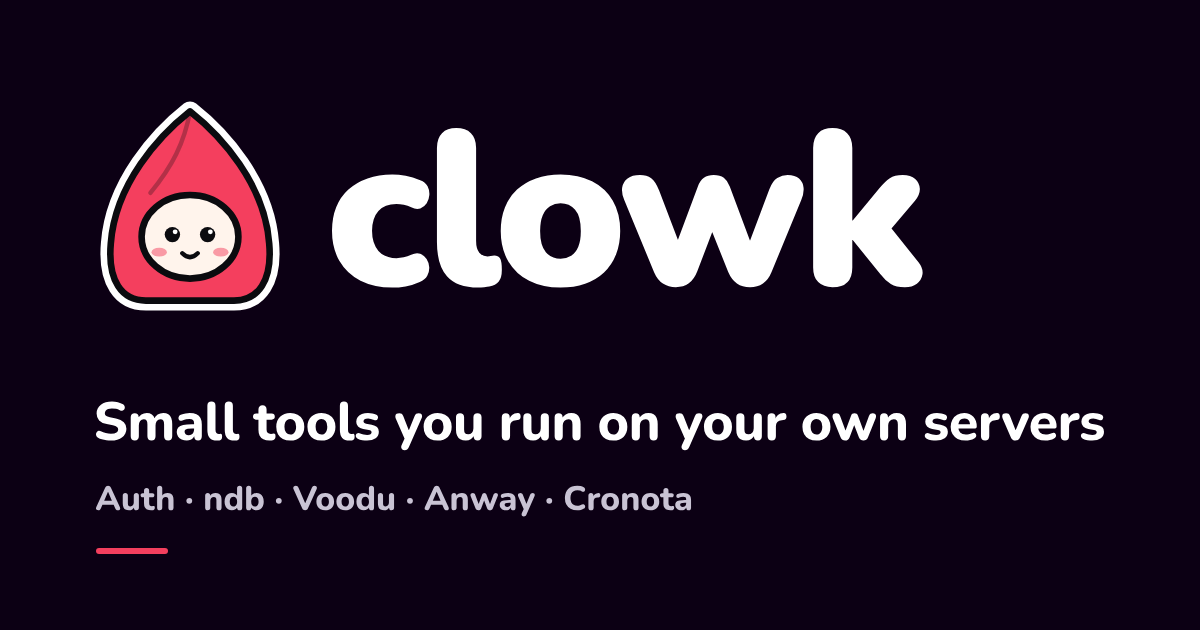
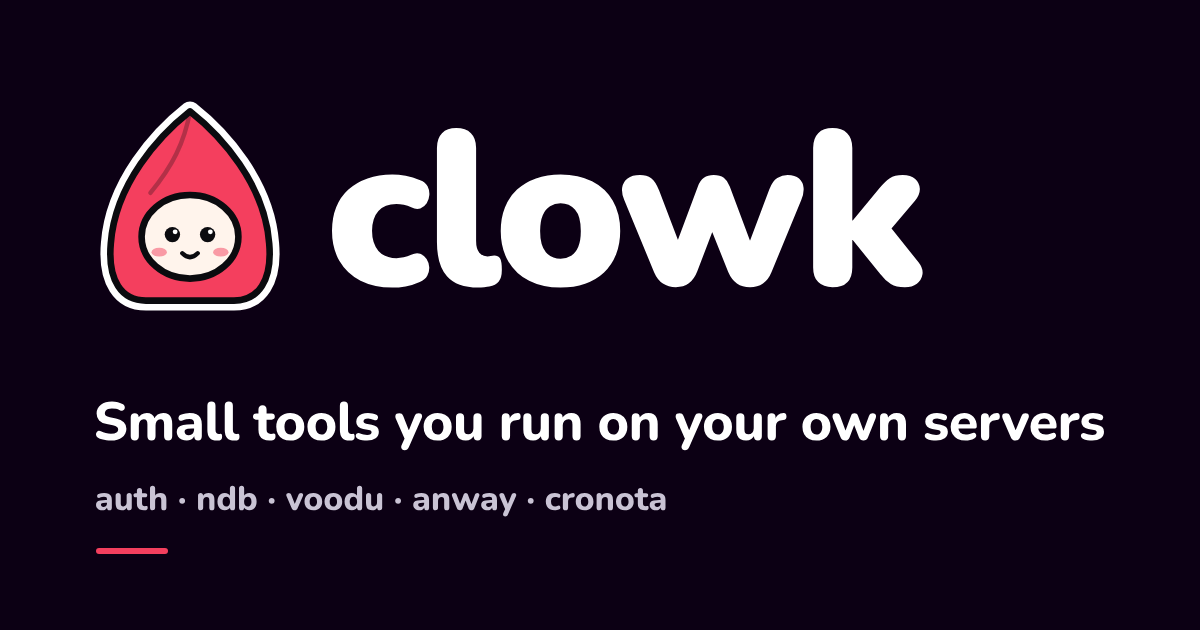
tag(patch): lowercase product names, one cronota card, tighter spacing
The products are named in lowercase everywhere: auth, ndb, voodu, anway and
cronota, also in the social preview. The "we build on our own tools" block
is one cronota card with what it runs on, so it no longer repeats cronota
on a phone. Less space above the hero and between sections on small
screens, and the footer is a compact grid.

Changed region(s): [[0.0617, 0.754, 0.5858, 0.8143]]

diff --git a/lib/products.ts b/lib/products.ts
@@ -28,9 +28,9 @@ export const SITE_URL = 'https://clowk.in';
 export const products: Product[] = [
   {
     slug: 'auth',
-    name: 'Clowk Auth',
+    name: 'auth',
     mark: '/brand/mark-on-light.svg',
-    seoTitle: 'Clowk Auth — authentication broker for every stack',
+    seoTitle: 'auth by Clowk — authentication broker for every stack',
     seoDescription:
       'Clowk runs the OAuth dance with Google, GitHub, X and Apple and returns a signed JWT. No embedded UI, no per-MAU billing. SDKs for React, Next.js, Express, Hono and Rails.',
     tagline: 'Broker, not provider. Sign-in that stays out of your UI.',
@@ -116,11 +116,11 @@ export const products: Product[] = [
   },
   {
     slug: 'voodu',
-    name: 'Voodu',
+    name: 'voodu',
     mark: '/products/voodu.svg',
-    seoTitle: 'Voodu — self-hosted PaaS with one HCL file and one voodu apply',
+    seoTitle: 'voodu — self-hosted PaaS with one HCL file and one voodu apply',
     seoDescription:
-      'Voodu is a self-hosted, Heroku-shaped PaaS. One HCL file describes apps, ingress with TLS and stateful services. voodu apply builds, ships, routes and swaps over SSH.',
+      'voodu is a self-hosted, Heroku-shaped PaaS. One HCL file describes apps, ingress with TLS and stateful services. voodu apply builds, ships, routes and swaps over SSH.',
     tagline: 'Self-hosted PaaS. One HCL file. One voodu apply.',
     summary:
       'Heroku-shaped deploys on your own boxes. The CLI streams the build over SSH: no commit, no push, no bare repo.',
@@ -162,7 +162,7 @@ export const products: Product[] = [
       },
     ],
     faq: [
-      { q: 'Do I need Kubernetes?', a: 'No. Voodu runs on a plain Linux server with Docker.' },
+      { q: 'Do I need Kubernetes?', a: 'No. voodu runs on a plain Linux server with Docker.' },
       { q: 'Do I have to commit before a deploy?', a: 'No. The CLI streams the build context straight to the server.' },
       { q: 'Which machines does it install on?', a: 'The server runs on Linux. On macOS the installer sets up the client only.' },
     ],
@@ -170,11 +170,11 @@ export const products: Product[] = [
   },
   {
     slug: 'anway',
-    name: 'Anway',
+    name: 'anway',
     mark: '/products/anway.svg',
-    seoTitle: 'Anway — background jobs for any language, one binary, no Redis',
+    seoTitle: 'anway — background jobs for any language, one binary, no Redis',
     seoDescription:
-      'Anway is a language-agnostic background job server. One binary with embedded disk storage, no Redis. Push a job from Rails and run it in Go.',
+      'anway is a language-agnostic background job server. One binary with embedded disk storage, no Redis. Push a job from Rails and run it in Go.',
     tagline: 'Background jobs for any language. One binary, no Redis.',
     summary: 'A Rails app pushes email.send, and a Go worker runs it. Storage is on disk, inside the binary.',
     bullets: [
@@ -197,7 +197,7 @@ export const products: Product[] = [
       { title: 'Batches', text: 'Batches with callbacks and child batches, job tracking, and a death hook.' },
     ],
     faq: [
-      { q: 'Do I need Redis?', a: 'No. Anway stores jobs on disk, inside the server.' },
+      { q: 'Do I need Redis?', a: 'No. anway stores jobs on disk, inside the server.' },
       { q: 'Which languages can push and run jobs?', a: 'There are SDKs for Ruby, Go and JavaScript. A job pushed in one language can run in another.' },
       { q: 'How do I run it?', a: 'Use the Docker image, or download a binary for Linux or macOS from the releases.' },
     ],
@@ -205,11 +205,11 @@ export const products: Product[] = [
   },
   {
     slug: 'cronota',
-    name: 'Cronota',
+    name: 'cronota',
     mark: '/products/cronota.svg',
-    seoTitle: 'Cronota — emit NFS-e on a schedule through the Emissor Nacional',
+    seoTitle: 'cronota — emit NFS-e on a schedule through the Emissor Nacional',
     seoDescription:
-      'Cronota emits NFS-e through the Emissor Nacional: one-off notes, templates and recurring schedules with approval. A1 certificate encrypted and audited.',
+      'cronota emits NFS-e through the Emissor Nacional: one-off notes, templates and recurring schedules with approval. A1 certificate encrypted and audited.',
     tagline: 'NFS-e on a schedule, through the Emissor Nacional.',
     summary:
       'For companies in Brazil: one-off notes, templates and recurring schedules, with approval before each note if you want it.',
@@ -227,11 +227,11 @@ export const products: Product[] = [
       { title: 'Schedules', text: 'Recurring notes, with an optional approval before each one is emitted.' },
       { title: 'Live and Sandbox', text: 'Production and produção restrita, switched in the tenant menu.' },
       { title: 'A1 certificate', text: 'The PFX is encrypted, and every opening is audited.' },
-      { title: 'ADN sync', text: 'Notes emitted outside Cronota show up in the app.' },
+      { title: 'ADN sync', text: 'Notes emitted outside cronota show up in the app.' },
       { title: 'API and webhooks', text: 'API v1, webhooks, XML import, reports and team members.' },
     ],
     faq: [
-      { q: 'Who is Cronota for?', a: 'Companies in Brazil that emit NFS-e through the Emissor Nacional.' },
+      { q: 'Who is cronota for?', a: 'Companies in Brazil that emit NFS-e through the Emissor Nacional.' },
       { q: 'Can I check a note before it goes out?', a: 'Yes. A schedule can ask for approval before each note.' },
       { q: 'Can I test without emitting real notes?', a: 'Yes. Switch to Sandbox to use produção restrita.' },
     ],

diff --git a/components/product/ProductPage.tsx b/components/product/ProductPage.tsx
@@ -15,7 +15,7 @@ export default function ProductPage({ product }: { product: Product }) {
       <Header />
 
       <main className="bg-[#0C0014] text-white">
-        <section className="max-w-6xl mx-auto px-4 sm:px-6 pt-32 pb-14 flex flex-wrap gap-12 items-center">
+        <section className="max-w-6xl mx-auto px-4 sm:px-6 pt-24 md:pt-32 pb-12 md:pb-14 flex flex-wrap gap-10 md:gap-12 items-center">
           <div className="flex-[999_1_520px] min-w-0 flex flex-col items-start gap-5">
             <nav aria-label="Breadcrumb" className="flex gap-2 text-sm text-[#A9A1B6]">
               <Link href="/#products" className="hover:text-white">Products</Link>
@@ -37,7 +37,7 @@ export default function ProductPage({ product }: { product: Product }) {
 
             <div className="flex flex-wrap gap-3">
               <Link href={product.docsUrl} className="inline-flex items-center min-h-12 px-6 rounded-xl bg-[#F43F5E] hover:bg-[#E8385A] font-bold transition-colors">
-                {product.slug === 'cronota' ? 'Open Cronota' : 'Read the docs'} ↗
+                {product.slug === 'cronota' ? 'Open cronota' : 'Read the docs'} ↗
               </Link>
 
               {product.githubUrl && (
@@ -57,7 +57,7 @@ export default function ProductPage({ product }: { product: Product }) {
         </section>
 
         {product.slug !== 'cronota' && (
-          <section aria-labelledby="install-title" className="max-w-6xl mx-auto px-4 sm:px-6 pb-16">
+          <section aria-labelledby="install-title" className="max-w-6xl mx-auto px-4 sm:px-6 pb-12 md:pb-16">
             <div className="rounded-[18px] bg-[#140D1C] border border-white/[0.09] p-5 sm:px-6 flex flex-wrap items-center gap-x-6 gap-y-3">
               <h2 id="install-title" className="text-base font-bold">Install</h2>
 
@@ -70,7 +70,7 @@ export default function ProductPage({ product }: { product: Product }) {
           </section>
         )}
 
-        <section aria-labelledby="features-title" className="max-w-6xl mx-auto px-4 sm:px-6 pb-20 flex flex-col gap-6">
+        <section aria-labelledby="features-title" className="max-w-6xl mx-auto px-4 sm:px-6 pb-14 md:pb-20 flex flex-col gap-6">
           <h2 id="features-title" className="text-[clamp(28px,3.4vw,40px)] tracking-tight font-bold">What you get</h2>
 
           <div className="grid grid-cols-[repeat(auto-fit,minmax(min(280px,100%),1fr))] gap-4">
@@ -84,7 +84,7 @@ export default function ProductPage({ product }: { product: Product }) {
         </section>
 
         <section aria-labelledby="more-title" className="border-t border-white/[0.08] bg-[#110A18]">
-          <div className="max-w-6xl mx-auto px-4 sm:px-6 py-16 flex flex-col gap-5">
+          <div className="max-w-6xl mx-auto px-4 sm:px-6 py-12 md:py-16 flex flex-col gap-5">
             <h2 id="more-title" className="text-2xl font-bold">More from Clowk</h2>
 
             <ul className="grid grid-cols-[repeat(auto-fit,minmax(min(220px,100%),1fr))] gap-3">
@@ -104,7 +104,7 @@ export default function ProductPage({ product }: { product: Product }) {
           </div>
         </section>
 
-        <section aria-labelledby="faq-title" className="max-w-[820px] mx-auto px-4 sm:px-6 py-18 flex flex-col gap-3">
+        <section aria-labelledby="faq-title" className="max-w-[820px] mx-auto px-4 sm:px-6 py-14 md:py-18 flex flex-col gap-3">
           <h2 id="faq-title" className="text-[clamp(28px,3.4vw,40px)] tracking-tight font-bold mb-2">Questions</h2>
 
           {product.faq.map(item => (

diff --git a/components/home/Family.tsx b/components/home/Family.tsx
@@ -1,5 +1,5 @@
 import ProductMark from '@/components/ProductMark';
-import { findProduct, products, type Product } from '@/lib/products';
+import { findProduct, products } from '@/lib/products';
 
 export default function Family() {
   const cronota = findProduct('cronota')!;
@@ -7,36 +7,35 @@ export default function Family() {
 
   return (
     <section id="family" aria-labelledby="family-title" className="scroll-mt-24 border-y border-white/[0.08] bg-[#110A18]">
-      <div className="max-w-6xl mx-auto px-4 sm:px-6 py-18 flex flex-wrap gap-10 items-center">
-        <div className="flex-[1_1_340px] flex flex-col gap-3.5">
+      <div className="max-w-6xl mx-auto px-4 sm:px-6 py-14 md:py-18 flex flex-wrap gap-8 md:gap-10 items-center">
+        <div className="flex-[1_1_340px] flex flex-col gap-3">
           <h2 id="family-title" className="text-[clamp(28px,3.4vw,40px)] tracking-tight font-bold text-white">
             We build on our own tools.
           </h2>
 
           <p className="text-[17px] leading-relaxed text-[#C9C3D4]">
-            Cronota is a real app, and it runs on three of the products. You can mix them the same way, or use only one.
+            cronota is a real app, and it runs on three of the products. You can mix them the same way, or use only one.
           </p>
         </div>
 
-        <ul className="flex-[999_1_560px] min-w-0 flex flex-col gap-3">
-          {used.map(product => (
-            <li key={product.slug} className="flex flex-wrap items-center gap-3.5">
-              <Tile product={product} />
-              <span className="text-sm font-bold text-[#FB7185] whitespace-nowrap">{product.usedBy} →</span>
-              <Tile product={cronota} highlight />
-            </li>
-          ))}
-        </ul>
+        <div className="flex-[999_1_560px] min-w-0 rounded-[20px] bg-[#1A1222] border border-[#F43F5E]/45 p-4 sm:p-5 flex flex-col gap-4">
+          <div className="flex items-center gap-3">
+            <ProductMark product={cronota} size="sm" />
+            <span className="text-base font-bold text-white">{cronota.name}</span>
+            <span className="text-sm text-[#A9A1B6]">runs on</span>
+          </div>
+
+          <ul className="grid grid-cols-[repeat(auto-fit,minmax(min(180px,100%),1fr))] gap-2.5">
+            {used.map(product => (
+              <li key={product.slug} className="flex items-center gap-3 px-3.5 py-3 rounded-[14px] bg-[#140D1C] border border-white/[0.09]">
+                <ProductMark product={product} size="sm" />
+                <span className="text-base font-bold text-white">{product.name}</span>
+                <span className="ml-auto text-sm font-bold text-[#FB7185]">{product.usedBy}</span>
+              </li>
+            ))}
+          </ul>
+        </div>
       </div>
     </section>
-  );
-}
-
-function Tile({ product, highlight = false }: { product: Product; highlight?: boolean }) {
-  return (
-    <div className={`flex-[1_1_200px] flex items-center gap-3 px-4 py-3.5 rounded-[14px] bg-[#1A1222] border ${highlight ? 'border-[#F43F5E]/45' : 'border-white/[0.09]'}`}>
-      <ProductMark product={product} size="sm" />
-      <span className="text-base font-bold text-white">{product.name}</span>
-    </div>
   );
 }

diff --git a/components/Footer.tsx b/components/Footer.tsx
@@ -11,8 +11,8 @@ const company = [
 export default function Footer() {
   return (
     <footer className="bg-[#0C0014] border-t border-white/[0.08] text-[#C9C3D4]">
-      <div className="max-w-6xl mx-auto px-4 sm:px-6 py-12 flex flex-wrap gap-10">
-        <div className="flex-[1_1_240px] flex flex-col gap-3">
+      <div className="max-w-6xl mx-auto px-4 sm:px-6 pt-10 pb-6 grid grid-cols-2 sm:grid-cols-3 md:grid-cols-[2fr_1fr_1fr_1fr] gap-x-6 gap-y-8">
+        <div className="col-span-2 sm:col-span-3 md:col-span-1 flex flex-col gap-2">
           <Logo height={28} />
           <p className="text-sm text-[#A9A1B6]">Small tools you run on your own servers.</p>
         </div>
@@ -22,7 +22,7 @@ export default function Footer() {
         <FooterColumn title="Company" links={company} />
       </div>
 
-      <div className="max-w-6xl mx-auto px-4 sm:px-6 pb-10 text-xs text-[#A9A1B6]">
+      <div className="max-w-6xl mx-auto px-4 sm:px-6 pb-8 text-xs text-[#A9A1B6]">
         © {new Date().getFullYear()} Clowk. All rights reserved.
       </div>
     </footer>
@@ -31,11 +31,11 @@ export default function Footer() {
 
 function FooterColumn({ title, links }: { title: string; links: { label: string; href: string }[] }) {
   return (
-    <div className="flex-[1_1_160px] flex flex-col gap-1 text-sm">
-      <h2 className="text-[13px] font-bold text-white mb-1.5">{title}</h2>
+    <div className="flex flex-col text-sm min-w-0">
+      <h2 className="text-[13px] font-bold text-white mb-1">{title}</h2>
 
       {links.map(link => (
-        <Link key={link.label} href={link.href} className="min-h-8 inline-flex items-center hover:text-white transition-colors">
+        <Link key={link.label} href={link.href} className="min-h-8 inline-flex items-center truncate hover:text-white transition-colors">
           {link.label}
         </Link>
       ))}

diff --git a/components/home/HomeHero.tsx b/components/home/HomeHero.tsx
@@ -4,7 +4,7 @@ import { products } from '@/lib/products';
 
 export default function HomeHero() {
   return (
-    <section className="max-w-6xl mx-auto px-4 sm:px-6 pt-36 pb-14 md:pt-44 flex flex-col items-start gap-6">
+    <section className="max-w-6xl mx-auto px-4 sm:px-6 pt-24 pb-10 md:pt-40 md:pb-14 flex flex-col items-start gap-5 md:gap-6">
       <span className="inline-flex items-center px-3 py-1.5 rounded-full border border-white/[0.12] text-[13px] text-[#C9C3D4]">
         Five products · one family · self-hosted
       </span>
@@ -24,11 +24,11 @@ export default function HomeHero() {
         </Link>
 
         <Link href="/auth" className="inline-flex items-center min-h-12 px-6 rounded-xl border border-white/[0.18] hover:bg-white/5 text-white font-bold transition-colors">
-          Start with Clowk Auth
+          Start with auth
         </Link>
       </div>
 
-      <ul className="flex flex-wrap gap-2.5 mt-4" aria-label="Products">
+      <ul className="flex flex-wrap gap-2.5 mt-2 md:mt-4" aria-label="Products">
         {products.map(product => (
           <li key={product.slug}>
             <Link

diff --git a/components/home/ProductGrid.tsx b/components/home/ProductGrid.tsx
@@ -5,7 +5,7 @@ import { products } from '@/lib/products';
 
 export default function ProductGrid() {
   return (
-    <section id="products" aria-labelledby="products-title" className="scroll-mt-24 max-w-6xl mx-auto px-4 sm:px-6 pt-8 pb-20 flex flex-col gap-7">
+    <section id="products" aria-labelledby="products-title" className="scroll-mt-24 max-w-6xl mx-auto px-4 sm:px-6 pt-6 pb-14 md:pt-8 md:pb-20 flex flex-col gap-6 md:gap-7">
       <div className="flex flex-col gap-2">
         <h2 id="products-title" className="text-[clamp(28px,3.4vw,40px)] tracking-tight font-bold text-white">
           The products

diff --git a/app/layout.tsx b/app/layout.tsx
@@ -13,7 +13,7 @@ const OG_IMAGE = `${SITE_URL}/og-image.png`;
 
 const TITLE = 'Clowk — Small tools you run on your own servers';
 const DESCRIPTION =
-  'Clowk makes self-hosted tools: Clowk Auth for sign-in, ndb for search on NDJSON, Voodu for deploys, Anway for background jobs and Cronota for NFS-e.';
+  'Clowk makes self-hosted tools: auth for sign-in, ndb for search on NDJSON, voodu for deploys, anway for background jobs and cronota for NFS-e.';
 
 export const metadata: Metadata = {
   title: { default: TITLE, template: '%s · Clowk' },

diff --git a/components/home/Ways.tsx b/components/home/Ways.tsx
@@ -6,7 +6,7 @@ const ways = [
 
 export default function Ways() {
   return (
-    <section aria-labelledby="ways-title" className="max-w-6xl mx-auto px-4 sm:px-6 py-20 flex flex-col gap-7">
+    <section aria-labelledby="ways-title" className="max-w-6xl mx-auto px-4 sm:px-6 py-14 md:py-20 flex flex-col gap-6 md:gap-7">
       <h2 id="ways-title" className="text-[clamp(28px,3.4vw,40px)] tracking-tight font-bold text-white">
         One way of working
       </h2>

diff --git a/brand/tools/outline_wordmark.py b/brand/tools/outline_wordmark.py
@@ -23,7 +23,7 @@ from fontTools.ttLib import TTFont
 TEXTS = {
     'wordmark': ('black', 'clowk', -0.03),
     'tagline': ('extra', 'Small tools you run on your own servers', -0.01),
-    'products': ('extra', 'Auth · ndb · Voodu · Anway · Cronota', 0),
+    'products': ('extra', 'auth · ndb · voodu · anway · cronota', 0),
 }
 
 

diff --git a/brand/README.md b/brand/README.md
@@ -6,7 +6,7 @@
 
 This folder holds the Clowk visual identity: the mark, the wordmark, the lockups, the app icons, the colors and the tools that build them. Use these files. Do not draw the mark again.
 
-Clowk is the family name. ndb, Voodu, Anway and Cronota keep their own marks, and they sit next to Clowk as "by Clowk".
+Clowk is the family name. ndb, voodu, anway and cronota keep their own marks, and they sit next to Clowk as "by Clowk".
 
 ## The mark: Hood
 
@@ -14,7 +14,7 @@ Clowk is the family name. ndb, Voodu, Anway and Cronota keep their own marks, an
   <img src="png/mark-on-light-256.png" alt="The Clowk hood" width="160">
 </p>
 
-The name sounds like "cloak", so the mark is a small figure in a coral hood. It has the same drawing language as the rest of the family (the ndb bowl, the Cronota note): a dark outline, flat fills, and a friendly face.
+The name sounds like "cloak", so the mark is a small figure in a coral hood. It has the same drawing language as the rest of the family (the ndb bowl, the cronota note): a dark outline, flat fills, and a friendly face.
 
 ### Construction
 
